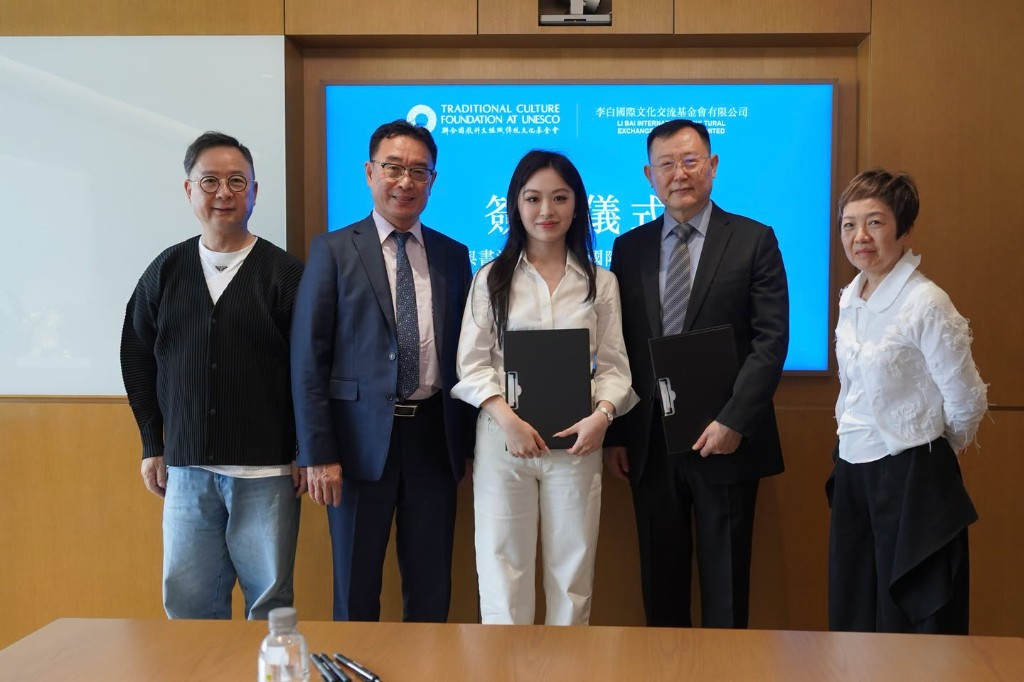
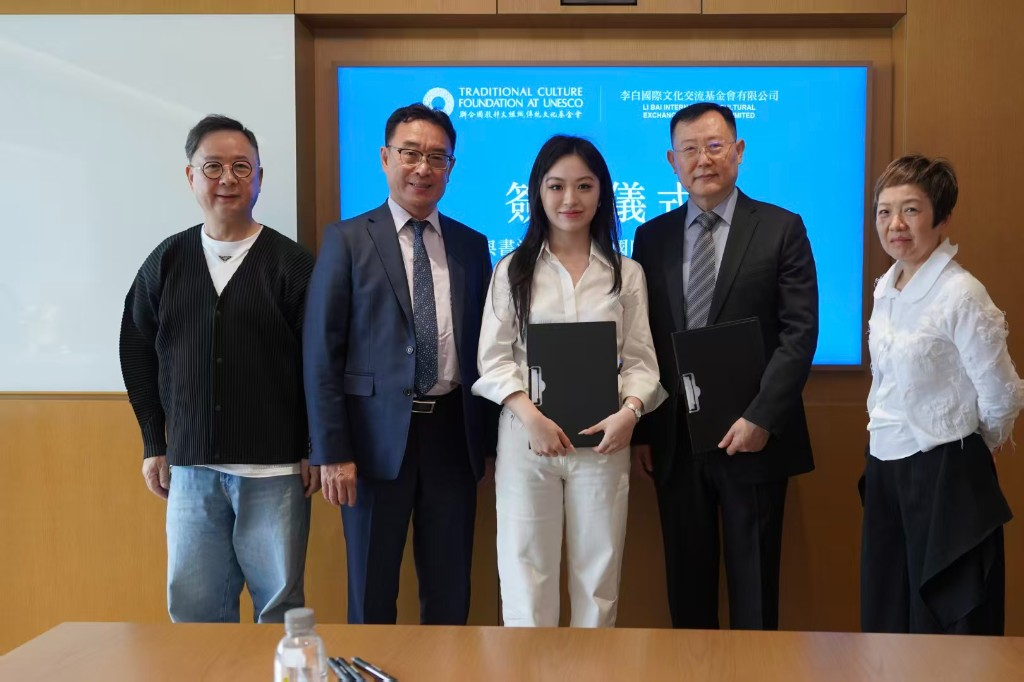
Revise the Li Bai news in Traditional Chinese and interleave ceremony photos.

diff --git a/src/data/news-articles.ts b/src/data/news-articles.ts
@@ -54,6 +54,16 @@ function sourceBlock(key: string, before: string, label: string, href: string) {
   };
 }
 
+function imageBlock(key: string, src: string, alt: string, layout: "landscape" | "portrait" = "landscape") {
+  return {
+    _type: "image" as const,
+    _key: key,
+    src,
+    alt,
+    layout
+  };
+}
+
 const sharedFiles = {
   slug: CONCEPT_NOTE_SLUG,
   publishDate: "2026-09-22T00:00:00.000Z",
@@ -225,142 +235,141 @@ const conceptNoteFr = {
 };
 
 const LI_BAI_SLUG = "li-bai-poetry-calligraphy-cooperation";
-const LI_BAI_SOURCE_URL =
-  "https://www.facebook.com/HKPlusMedia/posts/pfbid0fz66vmU7x3oxunE3ZpbY6E4YpBJghgeNFZ3da2DhrqMEMwxBo1p5nbP1gSrZw3otl";
+const LI_BAI_SOURCE_URL = "https://www.facebook.com/share/p/1BxofD8wQr/";
+const LI_BAI_PHOTO_SIGNING = "/assets/news/li-bai-cooperation-signing.jpg";
+const LI_BAI_PHOTO_TALKS = "/assets/news/li-bai-cooperation-talks.jpg";
+const LI_BAI_PHOTO_PORTRAIT = "/assets/news/li-bai-cooperation-signing-portrait.jpg";
 
 const liBaiShared = {
   slug: LI_BAI_SLUG,
-  publishDate: "2026-11-24T00:00:00.000Z"
-};
-
-const liBaiPhotos = {
-  zh: [
-    {
-      src: "/assets/news/li-bai-cooperation-talks.jpg",
-      alt: "本基金會與李白國際文化交流基金會舉行合作會談"
-    },
-    {
-      src: "/assets/news/li-bai-cooperation-signing.jpg",
-      alt: "本基金會與李白基金會簽署合作協議合影"
-    }
-  ],
-  en: [
-    {
-      src: "/assets/news/li-bai-cooperation-talks.jpg",
-      alt: "The Foundation and the Li Bai International Cultural Exchange Foundation hold a cooperation meeting"
-    },
-    {
-      src: "/assets/news/li-bai-cooperation-signing.jpg",
-      alt: "Signing ceremony of the cooperation agreement between the Foundation and the Li Bai Foundation"
-    }
-  ],
-  fr: [
-    {
-      src: "/assets/news/li-bai-cooperation-talks.jpg",
-      alt: "La Fondation et la Li Bai International Cultural Exchange Foundation tiennent une réunion de coopération"
-    },
-    {
-      src: "/assets/news/li-bai-cooperation-signing.jpg",
-      alt: "Cérémonie de signature de l'accord de coopération entre la Fondation et la Fondation Li Bai"
-    }
-  ]
+  publishDate: "2026-11-18T00:00:00.000Z"
 };
 
 const liBaiZh = {
   ...liBaiShared,
-  photos: liBaiPhotos.zh,
-  title: "本基金會與李白基金會簽署合作協議\n共同推動中國詩詞與書法傳統文化國際交流",
+  title: "《中國詩詞與書法傳統文化國際推廣合作框架協議》在香港簽署",
   category: "媒體報導",
   summary:
-    "本基金會與李白國際文化交流基金會簽署合作框架協議，共同推動中國詩詞與書法的傳承、推廣及國際交流。",
-  breadcrumbLabel: "與李白基金會簽署合作協議",
-  seoTitle: "本基金會與李白基金會簽署合作協議",
+    "我會與李白國際文化交流基金會有限公司在香港簽署《中國詩詞與書法傳統文化國際推廣合作框架協議》，共同推動中國詩詞與書法的國際學術研究、公共教育、展覽策劃與數字傳播。",
+  breadcrumbLabel: "合作框架協議在香港簽署",
+  seoTitle: "《中國詩詞與書法傳統文化國際推廣合作框架協議》在香港簽署",
   seoDescription:
-    "本基金會與李白國際文化交流基金會有限公司簽署《中國詩詞與書法傳統文化國際推廣合作框架協議》，就詩詞與書法的傳承、推廣及國際交流建立合作框架。",
+    "11月18日上午，我會與李白國際文化交流基金會有限公司在香港正式簽署《中國詩詞與書法傳統文化國際推廣合作框架協議》。",
   body: [
     block(
       "p1",
-      "本基金會與李白國際文化交流基金會有限公司簽署《中國詩詞與書法傳統文化國際推廣合作框架協議》，就中國詩詞與書法的傳承、推廣及國際交流建立合作框架。"
+      "11月18日上午，我會與李白國際文化交流基金會有限公司（簡稱「李白基金會」）在香港正式簽署《中國詩詞與書法傳統文化國際推廣合作框架協議》。中國書法於2009年被列入聯合國教科文組織人類非物質文化遺產代表作名錄。詩詞與書法是中華文明的精神標識，也是人類共同的文化財富。"
     ),
+    imageBlock("img1", LI_BAI_PHOTO_SIGNING, "我會與李白基金會簽署合作協議合影"),
     block(
       "p2",
-      "根據協議，雙方將在學術研究、公共教育、展覽策劃及數字傳播等領域開展合作，並與海外學術機構、博物館及公眾分享中國詩詞與書法的文化內涵。"
+      "根據協議，雙方將圍繞中國詩詞與書法的國際學術研究、公共教育、展覽策劃與數字傳播開展合作，重點面向絲綢之路沿線國家及「一帶一路」共建國家的學術機構、博物館與公眾。雙方將聯合策劃以高精度複製品、數字影像、學術圖錄為載體的李白書法與詩詞主題展覽，共同開發多語種數字內容，並優先增加面向絲綢之路沿線國家官方語言或通用語言的版本。"
     ),
+    imageBlock("img2", LI_BAI_PHOTO_TALKS, "我會與李白基金會舉行合作會談"),
     block(
       "p3",
-      "雙方計劃策劃李白書法與詩詞主題展覽，運用高精度複製品、數字影像及學術圖錄等媒介，並開發多語種數字內容，擴大海外公眾接觸相關文化資源的機會。"
+      "出席簽字儀式的有：我會中國區首席代表張忠華先生，李白基金會主席張欣先生、董事總經理蔡佳銘女士，以及港區全國政協委員、銅紫荊星章獲得者蔡榮星先生。蔡榮星先生長期服務香港社會、熱心文化公益，其親臨見證簽約，充分體現了香港各界對中華優秀傳統文化國際傳播事業的深切關注與鼎力支持。"
     ),
+    imageBlock("img3", LI_BAI_PHOTO_PORTRAIT, "李白基金會董事總經理蔡佳銘女士簽署合作協議", "portrait"),
     block(
       "p4",
-      "下一階段，雙方將就合作內容及實施細節進一步磋商，推動正式合約的簽署和相關項目的落實。雙方期望透過合作，為文化工作者、藝術愛好者及年輕一代提供更多參與機會，促進跨文化對話與相互理解。"
+      "雙方表示，將以此次簽約為起點，秉持開放包容、互學互鑒的精神，深耕學術研究、公共教育與數字傳播，讓中國詩詞與書法在多元文明對話中持續煥發時代光彩。"
     ),
-    sourceBlock("p5", "消息來源：", "央視香港", LI_BAI_SOURCE_URL)
+    sourceBlock("p5", "新聞報導：", "央視報導", LI_BAI_SOURCE_URL)
   ]
 };
 
 const liBaiEn = {
   ...liBaiShared,
-  photos: liBaiPhotos.en,
   title:
-    "Foundation Signs Cooperation Agreement with the Li Bai Foundation\nto Advance International Exchange of Chinese Poetry and Calligraphy",
+    "Framework Agreement on the International Promotion of Chinese Poetry and Calligraphy Traditional Culture Signed in Hong Kong",
   category: "Media",
   summary:
-    "The Foundation has signed a cooperation framework agreement with the Li Bai International Cultural Exchange Foundation to promote Chinese poetry and calligraphy worldwide.",
-  breadcrumbLabel: "Cooperation Agreement with the Li Bai Foundation",
-  seoTitle: "Foundation Signs Cooperation Agreement with the Li Bai Foundation",
+    "The Foundation and the Li Bai International Cultural Exchange Foundation Limited signed a framework agreement in Hong Kong on the international promotion of Chinese poetry and calligraphy.",
+  breadcrumbLabel: "Framework Agreement Signed in Hong Kong",
+  seoTitle:
+    "Framework Agreement on the International Promotion of Chinese Poetry and Calligraphy Traditional Culture Signed in Hong Kong",
   seoDescription:
-    "The Foundation and the Li Bai International Cultural Exchange Foundation Limited have signed a framework agreement on the international promotion of Chinese poetry and calligraphy.",
+    "On the morning of 18 November, the Foundation and the Li Bai International Cultural Exchange Foundation Limited formally signed in Hong Kong a framework agreement on the international promotion of Chinese poetry and calligraphy.",
   body: [
     block(
       "p1",
-      "The Foundation has signed a Framework Agreement on the International Promotion of Chinese Poetry and Calligraphy Traditional Culture with the Li Bai International Cultural Exchange Foundation Limited, establishing a cooperation framework for the inheritance, promotion, and international exchange of Chinese poetry and calligraphy."
+      "On the morning of 18 November, the Foundation and the Li Bai International Cultural Exchange Foundation Limited (the “Li Bai Foundation”) formally signed in Hong Kong the Framework Agreement on the International Promotion of Chinese Poetry and Calligraphy Traditional Culture. Chinese calligraphy was inscribed in 2009 on the UNESCO Representative List of the Intangible Cultural Heritage of Humanity. Poetry and calligraphy are spiritual emblems of Chinese civilisation, and a shared cultural heritage of humankind."
+    ),
+    imageBlock(
+      "img1",
+      LI_BAI_PHOTO_SIGNING,
+      "Group photograph at the signing of the cooperation agreement between the Foundation and the Li Bai Foundation"
     ),
     block(
       "p2",
-      "Under the agreement, the two parties will cooperate in academic research, public education, exhibition planning, and digital communication, and will share the cultural meaning of Chinese poetry and calligraphy with overseas academic institutions, museums, and the public."
+      "Under the agreement, the two parties will cooperate in international academic research, public education, exhibition planning, and digital communication relating to Chinese poetry and calligraphy, with a particular focus on academic institutions, museums, and the public in countries along the Silk Road and among Belt and Road partner countries. They will jointly curate exhibitions on Li Bai calligraphy and poetry, carried by high-precision reproductions, digital images, and academic catalogues; jointly develop multilingual digital content; and give priority to versions in the official or commonly used languages of Silk Road countries."
     ),
+    imageBlock("img2", LI_BAI_PHOTO_TALKS, "The Foundation and the Li Bai Foundation hold a cooperation meeting"),
     block(
       "p3",
-      "The two parties plan to curate exhibitions on Li Bai calligraphy and poetry, using high-precision reproductions, digital images, and academic catalogues, and to develop multilingual digital content that widens overseas public access to these cultural resources."
+      "Those present at the signing ceremony included Mr Zhang Zhonghua, Chief Representative of the Foundation in China; Mr Zhang Xin, Chairman of the Li Bai Foundation; Ms Cai Jiaming, Managing Director of the Li Bai Foundation; and Mr Cai Rongxing, a Hong Kong member of the National Committee of the Chinese People’s Political Consultative Conference and recipient of the Bronze Bauhinia Star. Mr Cai Rongxing has long served Hong Kong society and devoted himself to cultural public welfare; his presence at the signing fully reflects the deep concern and strong support of all sectors of Hong Kong for the international communication of China’s fine traditional culture."
+    ),
+    imageBlock(
+      "img3",
+      LI_BAI_PHOTO_PORTRAIT,
+      "Ms Cai Jiaming, Managing Director of the Li Bai Foundation, signs the cooperation agreement",
+      "portrait"
     ),
     block(
       "p4",
-      "In the next stage, the two parties will further discuss the substance of the cooperation and the details of implementation, with a view to signing a formal contract and carrying out related projects. Through this cooperation, both sides hope to offer more opportunities for cultural workers, art lovers, and younger generations to take part, and to foster intercultural dialogue and mutual understanding."
+      "Both parties said they would take this signing as a starting point, uphold the spirit of openness, inclusiveness, and mutual learning, and deepen academic research, public education, and digital communication, so that Chinese poetry and calligraphy continue to shine in dialogue among diverse civilisations."
     ),
-    sourceBlock("p5", "Source: ", "CCTV Hong Kong", LI_BAI_SOURCE_URL)
+    sourceBlock("p5", "News report: ", "CCTV", LI_BAI_SOURCE_URL)
   ]
 };
 
 const liBaiFr = {
   ...liBaiShared,
-  photos: liBaiPhotos.fr,
   title:
-    "La Fondation signe un accord de coopération avec la Fondation Li Bai\npour promouvoir les échanges internationaux autour de la poésie et de la calligraphie chinoises",
+    "Signature à Hong Kong de l'accord-cadre de promotion internationale de la poésie et de la calligraphie chinoises",
   category: "Médias",
   summary:
-    "La Fondation a signé un accord-cadre de coopération avec la Li Bai International Cultural Exchange Foundation afin de promouvoir la poésie et la calligraphie chinoises dans le monde.",
-  breadcrumbLabel: "Accord de coopération avec la Fondation Li Bai",
-  seoTitle: "La Fondation signe un accord de coopération avec la Fondation Li Bai",
+    "La Fondation et la Li Bai International Cultural Exchange Foundation Limited ont signé à Hong Kong un accord-cadre sur la promotion internationale de la poésie et de la calligraphie chinoises.",
+  breadcrumbLabel: "Accord-cadre signé à Hong Kong",
+  seoTitle:
+    "Signature à Hong Kong de l'accord-cadre de promotion internationale de la poésie et de la calligraphie chinoises",
   seoDescription:
-    "La Fondation et la Li Bai International Cultural Exchange Foundation Limited ont signé un accord-cadre sur la promotion internationale de la poésie et de la calligraphie chinoises.",
+    "Le 18 novembre au matin, la Fondation et la Li Bai International Cultural Exchange Foundation Limited ont officiellement signé à Hong Kong un accord-cadre sur la promotion internationale de la poésie et de la calligraphie chinoises.",
   body: [
     block(
       "p1",
-      "La Fondation a signé un Accord-cadre de coopération pour la promotion internationale de la poésie et de la calligraphie chinoises avec la Li Bai International Cultural Exchange Foundation Limited, établissant un cadre de coopération pour la transmission, la promotion et les échanges internationaux de la poésie et de la calligraphie chinoises."
+      "Le 18 novembre au matin, la Fondation et la Li Bai International Cultural Exchange Foundation Limited (la « Fondation Li Bai ») ont officiellement signé à Hong Kong l'Accord-cadre de coopération pour la promotion internationale de la poésie et de la calligraphie chinoises. La calligraphie chinoise a été inscrite en 2009 sur la Liste représentative du patrimoine culturel immatériel de l'humanité de l'UNESCO. La poésie et la calligraphie sont des emblèmes spirituels de la civilisation chinoise, et un patrimoine culturel commun de l'humanité."
+    ),
+    imageBlock(
+      "img1",
+      LI_BAI_PHOTO_SIGNING,
+      "Photographie de groupe lors de la signature de l'accord de coopération entre la Fondation et la Fondation Li Bai"
     ),
     block(
       "p2",
-      "Aux termes de cet accord, les deux parties coopéreront dans les domaines de la recherche universitaire, de l'éducation du public, de la conception d'expositions et de la diffusion numérique, et partageront le sens culturel de la poésie et de la calligraphie chinoises avec des institutions académiques, des musées et le public à l'étranger."
+      "Aux termes de cet accord, les deux parties coopéreront dans les domaines de la recherche universitaire internationale, de l'éducation du public, de la conception d'expositions et de la diffusion numérique autour de la poésie et de la calligraphie chinoises, en s'adressant en priorité aux institutions académiques, aux musées et au public des pays situés le long de la Route de la soie et des pays partenaires de l'« Initiative la Ceinture et la Route ». Elles concevront conjointement des expositions consacrées à la calligraphie et à la poésie de Li Bai, portées par des reproductions de haute précision, l'image numérique et des catalogues savants ; développeront ensemble des contenus numériques multilingues ; et donneront la priorité aux versions dans les langues officielles ou d'usage courant des pays de la Route de la soie."
+    ),
+    imageBlock(
+      "img2",
+      LI_BAI_PHOTO_TALKS,
+      "La Fondation et la Fondation Li Bai tiennent une réunion de coopération"
     ),
     block(
       "p3",
-      "Les deux parties prévoient de concevoir des expositions consacrées à la calligraphie et à la poésie de Li Bai, en recourant à des reproductions de haute précision, à l'image numérique et à des catalogues savants, et de développer des contenus numériques multilingues afin d'élargir l'accès du public étranger à ces ressources culturelles."
+      "Assistaient à la cérémonie de signature M. Zhang Zhonghua, représentant en chef de la Fondation en Chine ; M. Zhang Xin, président de la Fondation Li Bai ; Mme Cai Jiaming, directrice générale de la Fondation Li Bai ; ainsi que M. Cai Rongxing, membre hongkongais du Comité national de la Conférence consultative politique du peuple chinois et titulaire de l'étoile de Bauhinia de bronze. M. Cai Rongxing sert depuis longtemps la société hongkongaise et s'engage dans l'intérêt culturel public ; sa présence à la signature manifeste pleinement l'attention profonde et le soutien déterminé des divers milieux de Hong Kong à la diffusion internationale de l'excellente culture traditionnelle chinoise."
+    ),
+    imageBlock(
+      "img3",
+      LI_BAI_PHOTO_PORTRAIT,
+      "Mme Cai Jiaming, directrice générale de la Fondation Li Bai, signe l'accord de coopération",
+      "portrait"
     ),
     block(
       "p4",
-      "Dans une prochaine étape, les deux parties poursuivront les discussions sur le contenu de la coopération et les modalités de mise en œuvre, en vue de la signature d'un contrat formel et de la réalisation des projets concernés. Par cette coopération, elles souhaitent offrir davantage d'occasions de participation aux acteurs culturels, aux amateurs d'art et aux jeunes générations, et favoriser le dialogue interculturel et la compréhension mutuelle."
+      "Les deux parties ont indiqué qu'elles prendraient cette signature pour point de départ, dans un esprit d'ouverture, d'inclusivité et d'apprentissage mutuel, pour approfondir la recherche universitaire, l'éducation du public et la diffusion numérique, afin que la poésie et la calligraphie chinoises continuent de rayonner dans le dialogue des civilisations."
     ),
-    sourceBlock("p5", "Source : ", "CCTV Hong Kong", LI_BAI_SOURCE_URL)
+    sourceBlock("p5", "Reportage : ", "CCTV", LI_BAI_SOURCE_URL)
   ]
 };
 

diff --git a/src/data/searchIndex.ts b/src/data/searchIndex.ts
@@ -24,21 +24,21 @@ const LOCALES = Object.keys(languages) as Locale[];
 const pageItems: SearchItem[] = [
   { locale: "zh", type: "Page", title: "認識我們", description: "基金會介紹、使命與願景。", url: "/zh/about/" },
   { locale: "zh", type: "Page", title: "最新論壇", description: "2026 年世界和平論壇直播頁面。", url: "/zh/live/" },
-  { locale: "zh", type: "News", title: "本基金會與李白基金會簽署合作協議　共同推動中國詩詞與書法傳統文化國際交流", description: "本基金會與李白國際文化交流基金會簽署合作框架協議，共同推動中國詩詞與書法的傳承、推廣及國際交流。", url: "/zh/news/li-bai-poetry-calligraphy-cooperation/" },
+  { locale: "zh", type: "News", title: "《中國詩詞與書法傳統文化國際推廣合作框架協議》在香港簽署", description: "我會與李白國際文化交流基金會有限公司在香港簽署合作框架協議，共同推動中國詩詞與書法的國際學術研究、公共教育、展覽策劃與數字傳播。", url: "/zh/news/li-bai-poetry-calligraphy-cooperation/" },
   { locale: "zh", type: "News", title: "2026 世界和平論壇 – 概念說明", description: "2026 年 10 月 1–2 日，巴黎聯合國教科文組織總部世界和平論壇概念說明。", url: "/zh/news/international-conference-on-peace-2026-concept-note/" },
   { locale: "zh", type: "Page", title: "組織治理", description: "基金會主席、副主席與組織架構。", url: "/zh/governance/" },
   { locale: "zh", type: "Page", title: "支持我們", description: "支持愛的教育、國際論壇與經典翻譯。", url: "/zh/support/" },
   { locale: "zh", type: "Page", title: "文化資源中心", description: "閱讀經典，聆聽智慧，探索傳統文化。", url: "/zh/library/" },
   { locale: "en", type: "Page", title: "About Us", description: "Foundation mission and vision.", url: "/en/about/" },
   { locale: "en", type: "Page", title: "Latest Forum", description: "Live coverage of the International Conference on Peace, 1–2 October 2026, UNESCO Headquarters.", url: "/en/live/" },
-  { locale: "en", type: "News", title: "Foundation Signs Cooperation Agreement with the Li Bai Foundation to Advance International Exchange of Chinese Poetry and Calligraphy", description: "The Foundation has signed a cooperation framework agreement with the Li Bai International Cultural Exchange Foundation to promote Chinese poetry and calligraphy worldwide.", url: "/en/news/li-bai-poetry-calligraphy-cooperation/" },
+  { locale: "en", type: "News", title: "Framework Agreement on the International Promotion of Chinese Poetry and Calligraphy Traditional Culture Signed in Hong Kong", description: "The Foundation and the Li Bai International Cultural Exchange Foundation Limited signed a framework agreement in Hong Kong on the international promotion of Chinese poetry and calligraphy.", url: "/en/news/li-bai-poetry-calligraphy-cooperation/" },
   { locale: "en", type: "News", title: "International Conference on Peace 2026 – Concept Note", description: "Concept Note for the International Conference on Peace, 1–2 October 2026, UNESCO Headquarters, Paris.", url: "/en/news/international-conference-on-peace-2026-concept-note/" },
   { locale: "en", type: "Page", title: "Governance", description: "Foundation leadership and governance.", url: "/en/governance/" },
   { locale: "en", type: "Page", title: "Support Us", description: "Support Love Education, international forums, and classical translation.", url: "/en/support/" },
   { locale: "en", type: "Page", title: "Resource Center", description: "Read the classics, encounter enduring wisdom, and explore traditional culture.", url: "/en/library/" },
   { locale: "fr", type: "Page", title: "Nous connaître", description: "Mission et vision de la Fondation.", url: "/fr/about/" },
   { locale: "fr", type: "Page", title: "Dernier forum", description: "Couverture en direct de la Conférence internationale pour la paix, 1–2 octobre 2026, siège de l'UNESCO.", url: "/fr/live/" },
-  { locale: "fr", type: "News", title: "La Fondation signe un accord de coopération avec la Fondation Li Bai pour promouvoir les échanges internationaux autour de la poésie et de la calligraphie chinoises", description: "La Fondation a signé un accord-cadre de coopération avec la Li Bai International Cultural Exchange Foundation afin de promouvoir la poésie et la calligraphie chinoises dans le monde.", url: "/fr/news/li-bai-poetry-calligraphy-cooperation/" },
+  { locale: "fr", type: "News", title: "Signature à Hong Kong de l'accord-cadre de promotion internationale de la poésie et de la calligraphie chinoises", description: "La Fondation et la Li Bai International Cultural Exchange Foundation Limited ont signé à Hong Kong un accord-cadre sur la promotion internationale de la poésie et de la calligraphie chinoises.", url: "/fr/news/li-bai-poetry-calligraphy-cooperation/" },
   { locale: "fr", type: "News", title: "Conférence internationale pour la paix 2026 – Note conceptuelle", description: "Note conceptuelle de la Conférence internationale pour la paix, 1–2 octobre 2026, siège de l'UNESCO, Paris.", url: "/fr/news/international-conference-on-peace-2026-concept-note/" },
   { locale: "fr", type: "Page", title: "Gouvernance", description: "Direction et gouvernance de la Fondation.", url: "/fr/governance/" },
   { locale: "fr", type: "Page", title: "Centre de ressources", description: "Lire les classiques, rencontrer une sagesse durable et explorer la culture traditionnelle.", url: "/fr/library/" }

diff --git a/src/lib/news.ts b/src/lib/news.ts
@@ -73,9 +73,16 @@ export async function getNewsBySlug(locale: Locale, slug: string) {
   const sanity = await fetchOptional<NewsDetail | null>(newsDetailQuery, { locale, slug }, null);
   const fallback = fallbackNews[locale].find((article) => article.slug === slug) || null;
   if (sanity && fallback) {
+    const sanityBody = Array.isArray(sanity.body) ? sanity.body : [];
+    const fallbackBody = Array.isArray(fallback.body) ? fallback.body : [];
+    const sanityHasImages = sanityBody.some((block) => (block as { _type?: string })?._type === "image");
+    const fallbackHasImages = fallbackBody.some((block) => (block as { _type?: string })?._type === "image");
     return {
       ...fallback,
       ...sanity,
+      title: fallbackHasImages && !sanityHasImages ? fallback.title : sanity.title || fallback.title,
+      summary: fallbackHasImages && !sanityHasImages ? fallback.summary : sanity.summary || fallback.summary,
+      body: sanityHasImages ? sanityBody : fallbackHasImages ? fallbackBody : sanityBody.length ? sanityBody : fallbackBody,
       photos: sanity.photos?.length ? sanity.photos : fallback.photos,
       pdfUrl: sanity.pdfUrl || fallback.pdfUrl,
       pdfSize: sanity.pdfSize || fallback.pdfSize,

diff --git a/src/styles/global.css b/src/styles/global.css
@@ -3027,21 +3027,19 @@ html[lang="zh-Hant"] .about-brochure .book-toolbar button {
   line-height: 1.3;
 }
 
-.news-article-photos {
-  display: grid;
-  gap: 16px;
-  margin: 28px 0 36px;
-  max-width: min(52rem, 100%);
+.news-article-page .portable-body .news-article-figure {
+  margin: 1.4em 0 1.75em;
+  max-width: 100%;
 }
 
-.news-article-photos figure {
-  margin: 0;
-}
-
-.news-article-photos img {
+.news-article-page .portable-body .news-article-figure img {
   display: block;
   width: 100%;
   height: auto;
+}
+
+.news-article-page .portable-body .news-article-figure-portrait {
+  max-width: min(22rem, 100%);
 }
 
 .news-article-page .portable-body {
@@ -3054,6 +3052,16 @@ html[lang="zh-Hant"] .about-brochure .book-toolbar button {
 
 .news-article-page .portable-body p {
   margin: 0 0 1.15em;
+}
+
+.portable-body figure {
+  margin: 1.4em 0 1.75em;
+}
+
+.portable-body figure img {
+  display: block;
+  width: 100%;
+  height: auto;
 }
 
 .news-article-page .portable-body em {

diff --git a/src/lib/cms.ts b/src/lib/cms.ts
@@ -35,6 +35,7 @@ function eventKickerText(locale: Locale, cmsValue: string | undefined, fallback:
 type ImageValue = {
   alt?: string;
   asset?: unknown;
+  src?: string;
 };
 
 export type CmsSummary = {
@@ -146,7 +147,9 @@ function detailQuery(kind: CmsKind) {
 }
 
 export function imageSrc(image?: ImageValue, width = 1200) {
-  if (!image || !image.asset) return "";
+  if (!image) return "";
+  if (image.src) return image.src;
+  if (!image.asset) return "";
   try {
     return imageUrl(image).width(width).auto("format").fit("max").url();
   } catch {
